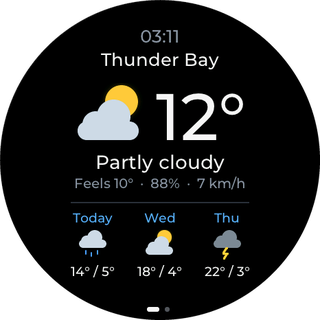
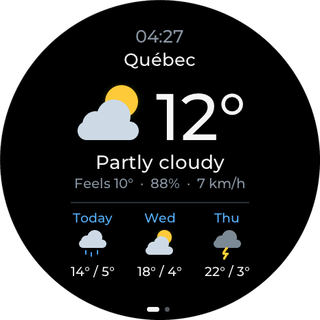
Use Québec instead of Thunder Bay in examples
Flasher page screenshots re-rendered with Québec; settings page city
search placeholder.

Claude-Session: https://claude.ai/code/session_011RCmTSnd5odF84oPWaCYMs

Changed region(s): [[0.3125, 0.0938, 0.6875, 0.2188]]

diff --git a/main/web/index.html b/main/web/index.html
@@ -39,7 +39,7 @@ select{width:100%;padding:11px 12px;border-radius:10px;border:1px solid var(--li
   <div class="muted" id="gpsNote" style="display:none;margin-top:8px">Phone location only works on the secure page:
     <a id="secureLink" style="color:var(--acc)" href="#"></a> (open it in your browser and accept the certificate warning).</div>
   <label for="q">Or search for a city</label>
-  <input id="q" placeholder="e.g. Thunder Bay" autocomplete="off">
+  <input id="q" placeholder="e.g. Québec" autocomplete="off">
   <div id="results"></div>
   <div class="row">
     <div><label for="lat">Latitude</label><input id="lat" inputmode="decimal"></div>
